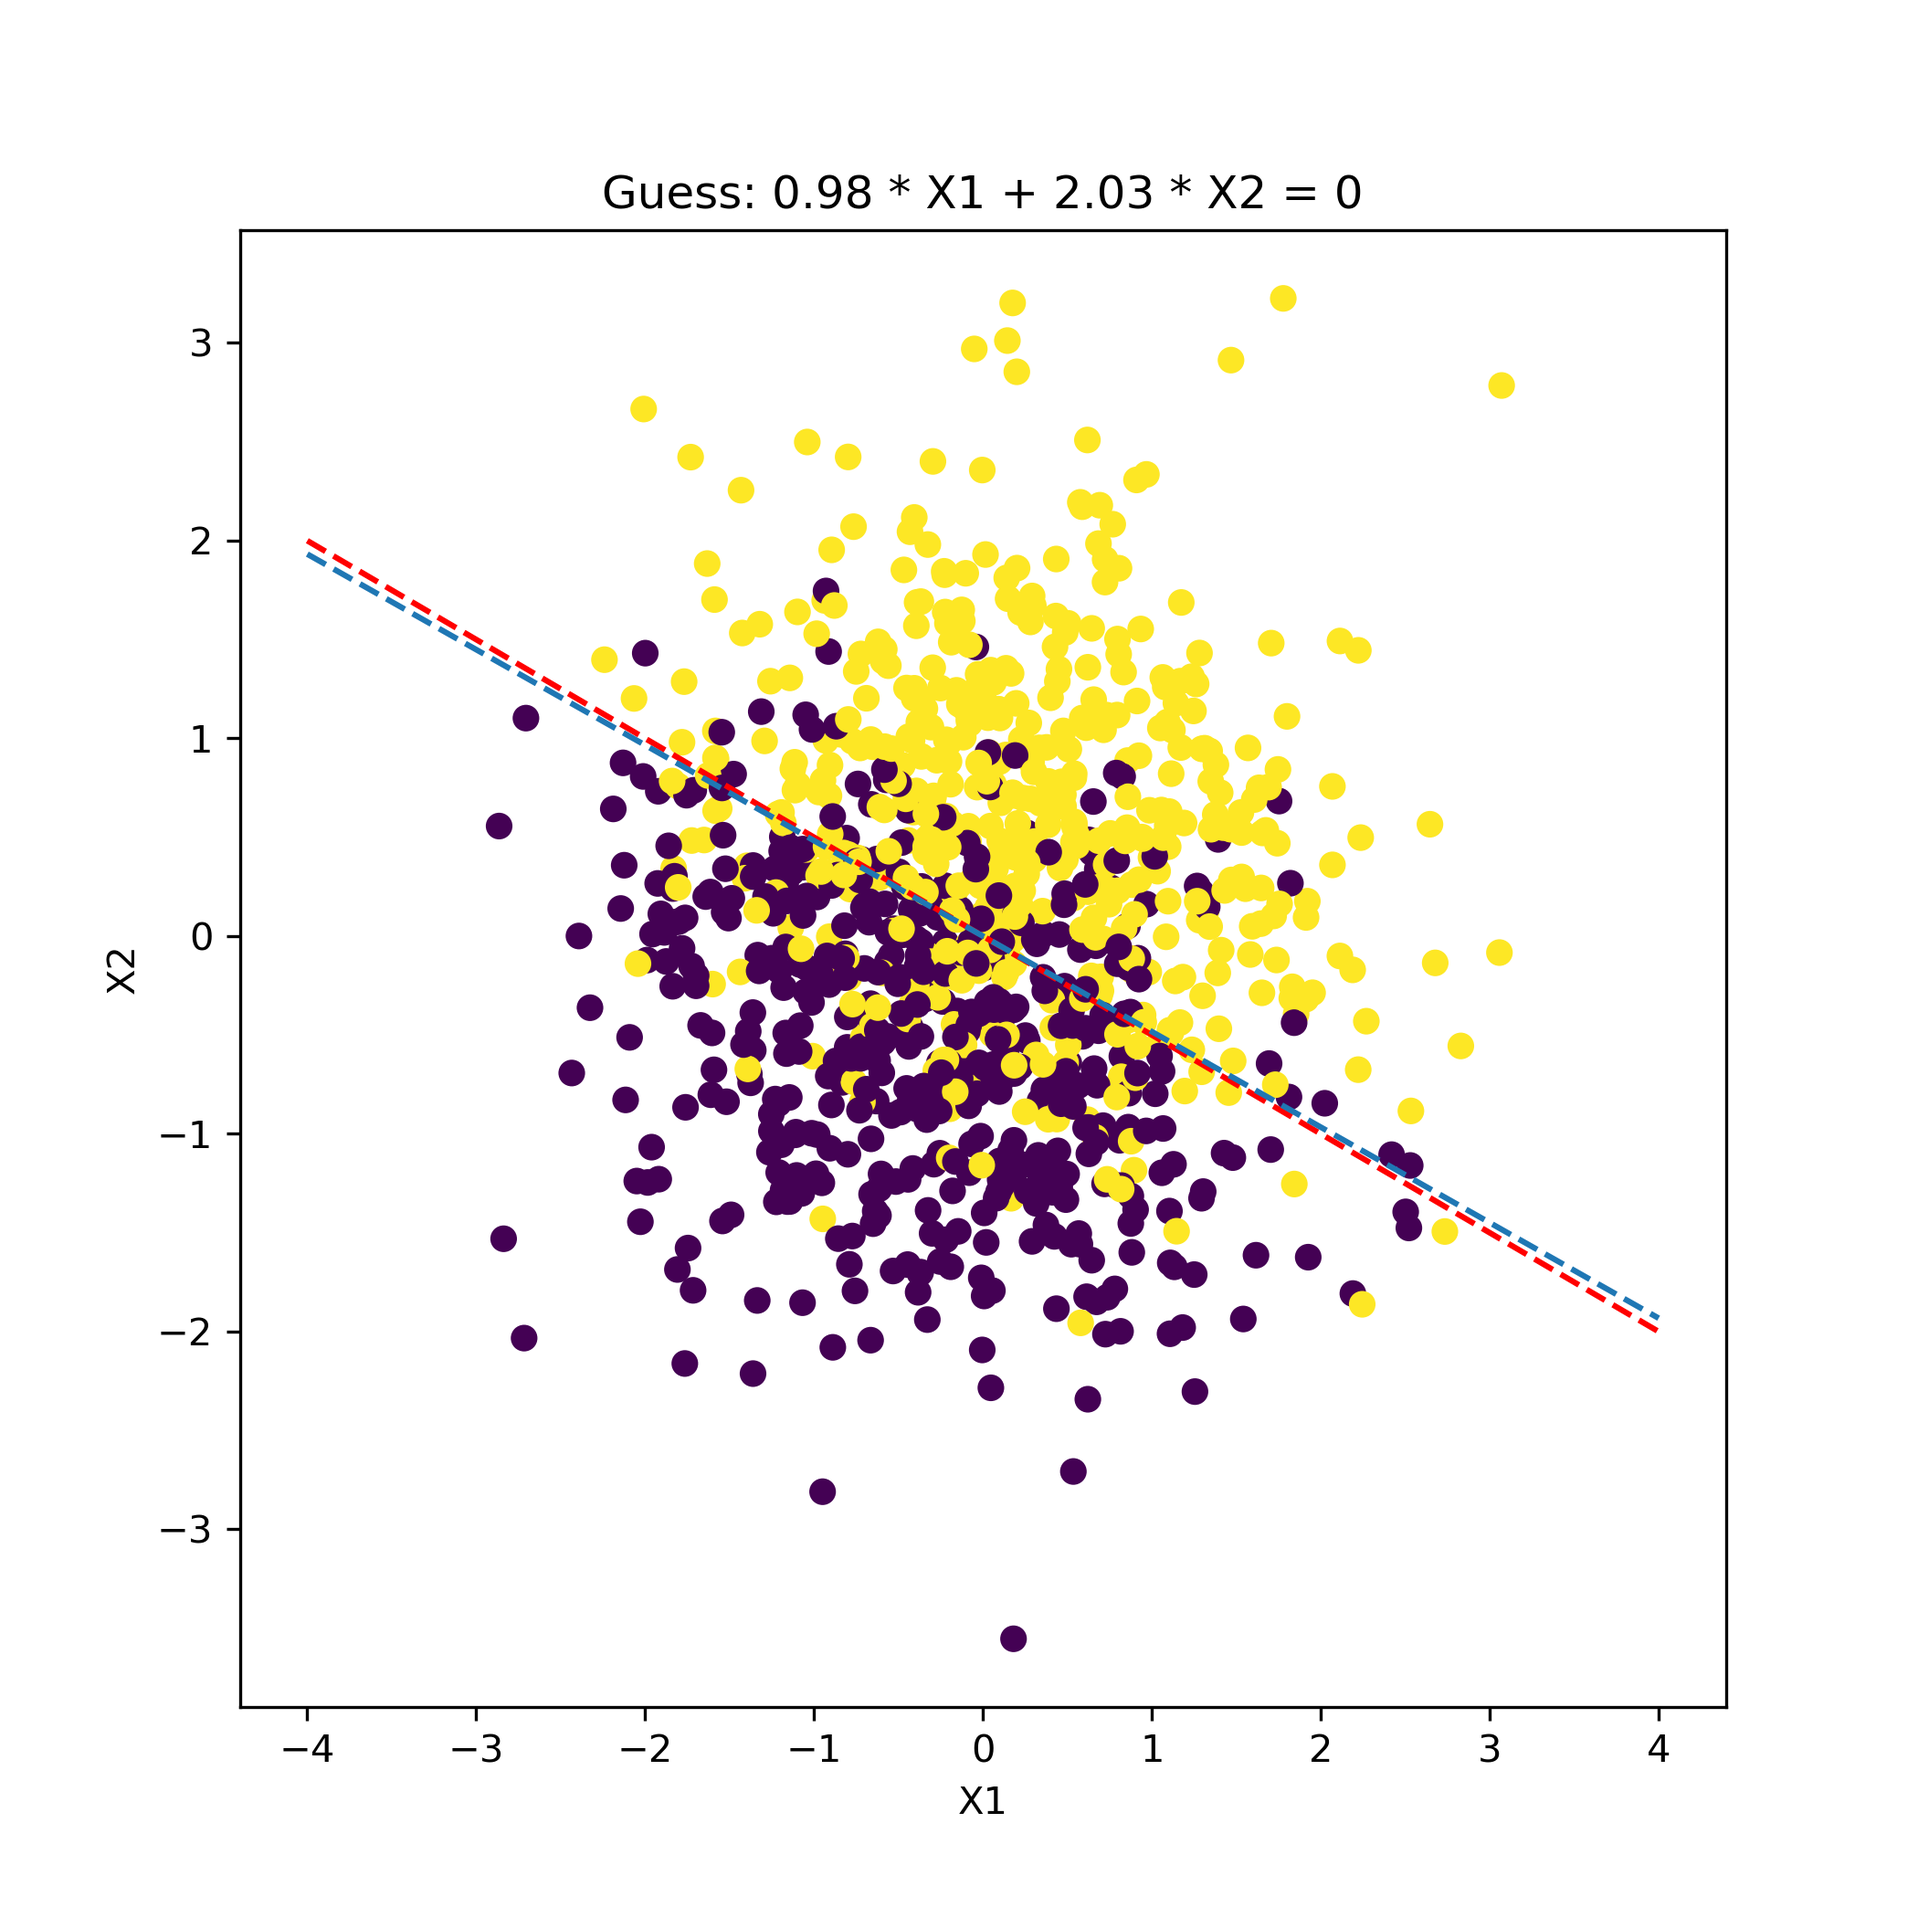
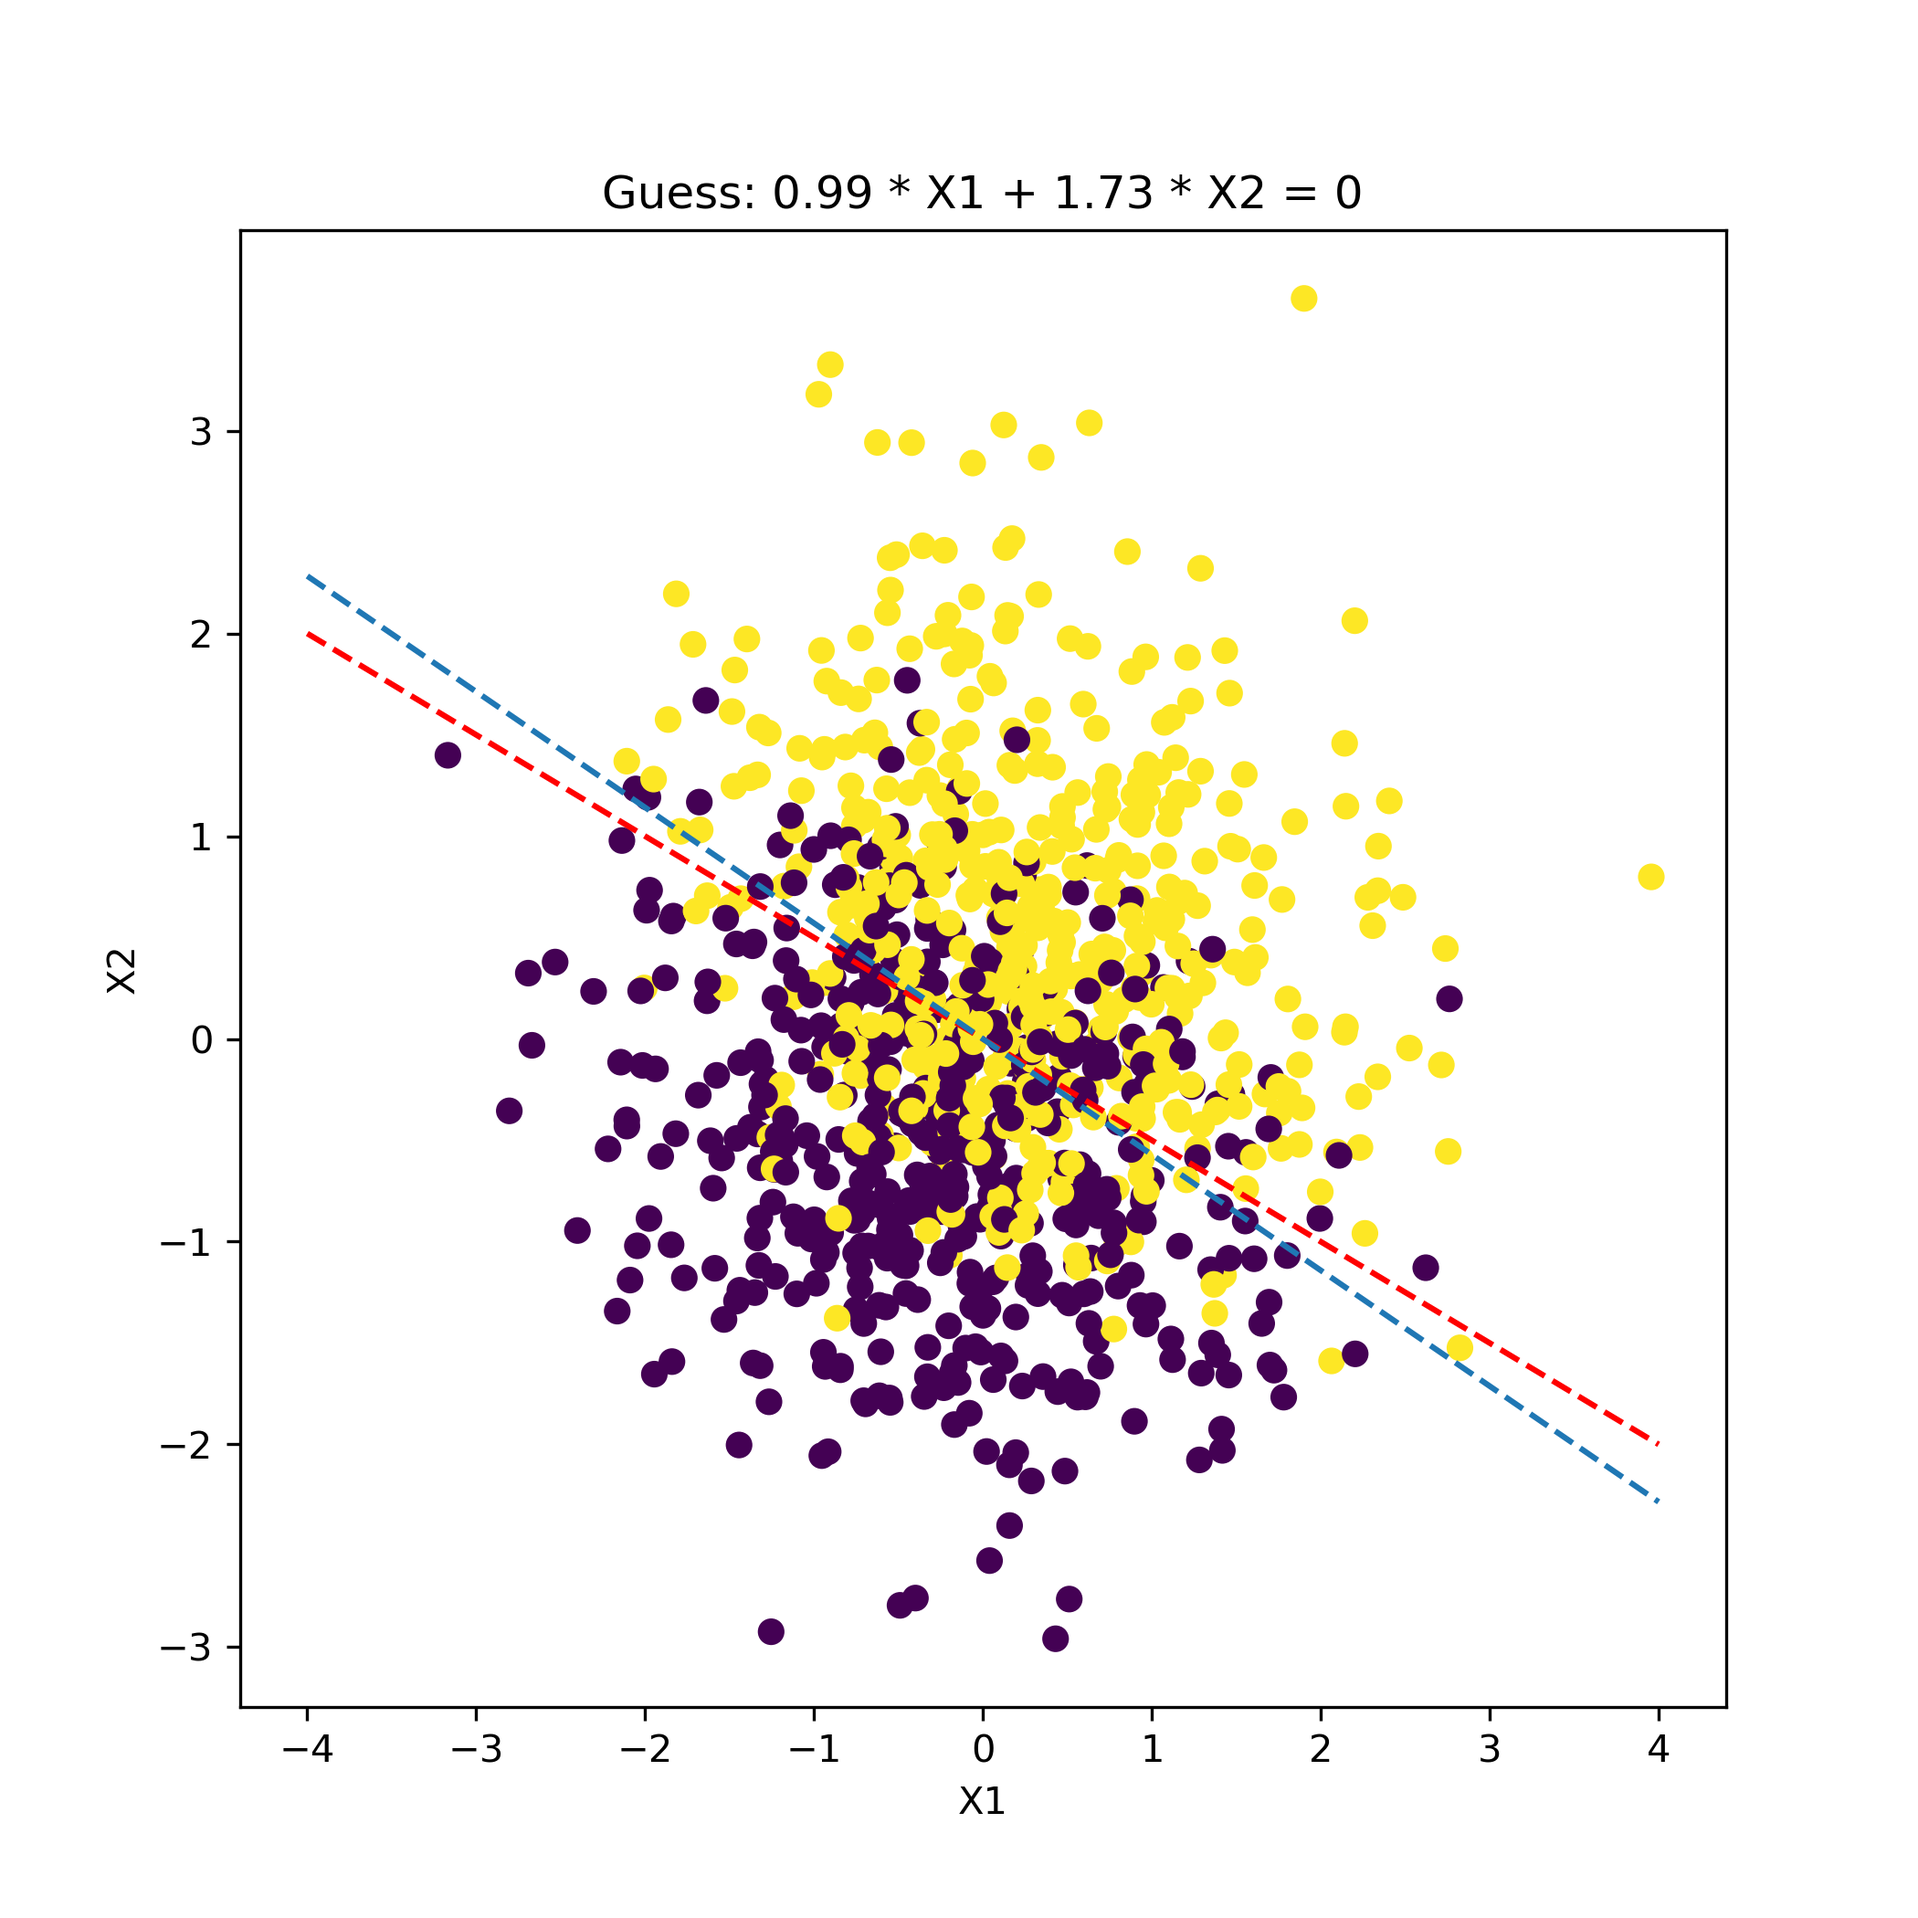
Updates gradient descent contour plot

diff --git a/u4_d01-dnn/u4_d01-dnn.html b/u4_d01-dnn/u4_d01-dnn.html
@@ -161,7 +161,7 @@ plot_sim(False)
 
 ---
 
-&lt;img src="images/LR-Sim-Ideal-1.png" width="50%" /&gt;
+&lt;img src="images/LR-Sim-Ideal-1.png" width="70%" /&gt;
 
 ---
 `sklearn` should solve this easily:
@@ -187,7 +187,7 @@ lr.coef_
 ```
 
 ```
-## array([[0.97871325, 2.02555781]])
+## array([[0.98944246, 1.73282415]])
 ```
 
 ---
@@ -222,7 +222,7 @@ plot_sim()
 
 ---
 
-Let's do 10 more:
+Let's do 50 more:
 
 
 ```python
@@ -235,6 +235,106 @@ plot_sim()
 ```
 
 &lt;img src="images/LR-Sim-Guess10-1.png" width="50%" /&gt;
+
+---
+
+Similarly we can actually plot our descent in `\(-l(\beta)\)` in the `\(\beta\)` space:
+
+
+```python
+alpha = 0.001
+beta_hat = np.array([-2.5, -2.5])
+betas = [beta_hat]
+for i in range(50):
+  l_minus = np.sum(np.log(1 + np.exp(np.dot(X, beta_hat)))) - np.dot(y.T, np.dot(X, beta_hat))
+  print(l_minus)
+  z = np.dot(X, beta_hat)
+  p = 1 / (1 + np.exp(-z))
+  beta_hat = beta_hat - alpha * (-np.dot(X.T, (y - p)))
+  betas.append(beta_hat)
+```
+
+```
+## 2521.5015837025085
+## 2133.2521181505963
+## 1767.6713098982254
+## 1434.5017241974474
+## 1147.196485574928
+## 920.2675658939154
+## 760.7732791411141
+## 660.2259966704901
+## 599.731010157399
+## 562.5778844573445
+## 538.6321878424669
+## 522.423426091901
+## 510.98497924956865
+## 502.63580965659344
+## 496.3738279425602
+## 491.572857181722
+## 487.8251786273523
+## 484.8557826876819
+## 482.4734947232794
+## 480.54194008909724
+## 478.9616472000983
+## 477.658650250548
+## 476.57701871680024
+## 475.67383391544627
+## 474.91573333763733
+## 474.2764846795432
+## 473.7352514356552
+## 473.27533241230185
+## 472.8832319941066
+## 472.54796510525455
+## 472.2605312413052
+## 472.0135119918367
+## 471.80075991227386
+## 471.6171557606209
+## 471.45841744989093
+## 471.3209485112923
+## 471.2017170216344
+## 471.0981582202347
+## 471.0080956931455
+## 470.9296772172653
+## 470.8613222586089
+## 470.8016787945555
+## 470.74958764037126
+## 470.7040528491634
+## 470.66421705295284
+## 470.6293408433305
+## 470.5987854698369
+## 470.5719982749274
+## 470.54850039533244
+## 470.52787634754634
+```
+
+---
+
+
+```python
+betas_arr = np.array(betas)
+m = 10
+beta1 = np.linspace(-3.0, 3.0, m)
+beta2 = np.linspace(-3.0, 3.0, m)
+B1, B2 = np.meshgrid(beta1, beta2)
+L = np.zeros((m, m))
+for i in range(m):
+  for j in range(m):
+    beta_hat = np.array([beta1[i], beta2[j]])
+    L[i, j] = np.sum(np.log(1 + np.exp(np.dot(X, beta_hat)))) - np.dot(y.T, np.dot(X, beta_hat))
+fig, ax = plt.subplots(1,1)
+cp = ax.contourf(B1, B2, L)
+cb = fig.colorbar(cp)
+ax.set_title('-l(beta) Gradient Descent')
+ax.set_xlabel('beta1')
+ax.set_ylabel('beta2')
+ax.plot(betas_arr[:, 0], betas_arr[:, 1], marker='x', color ='white')
+ax.plot([beta[0]], [beta[1]], marker='x', color='red', markersize=20, markeredgewidth=5)
+plt.show()
+```
+
+---
+
+&lt;img src="images/LR-Descent-1.png" width="70%" /&gt;
 
 ---
 
